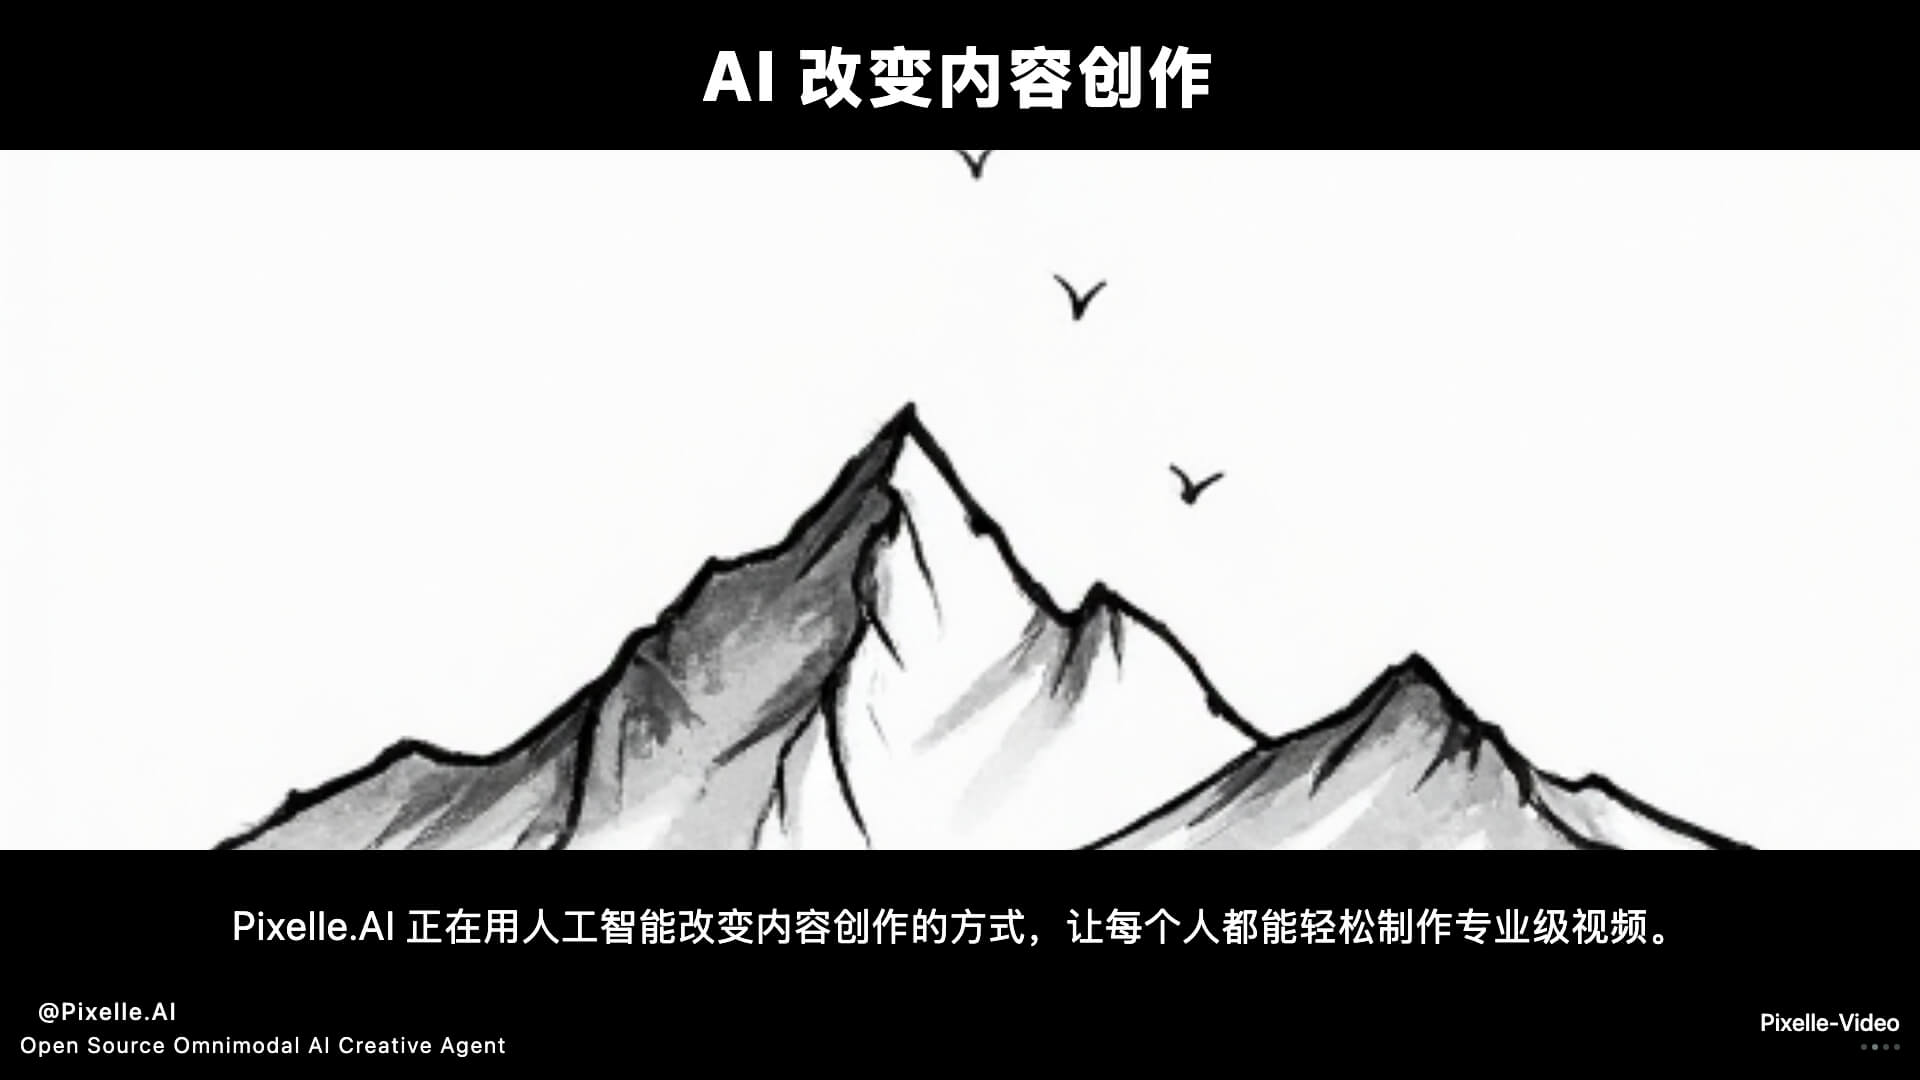
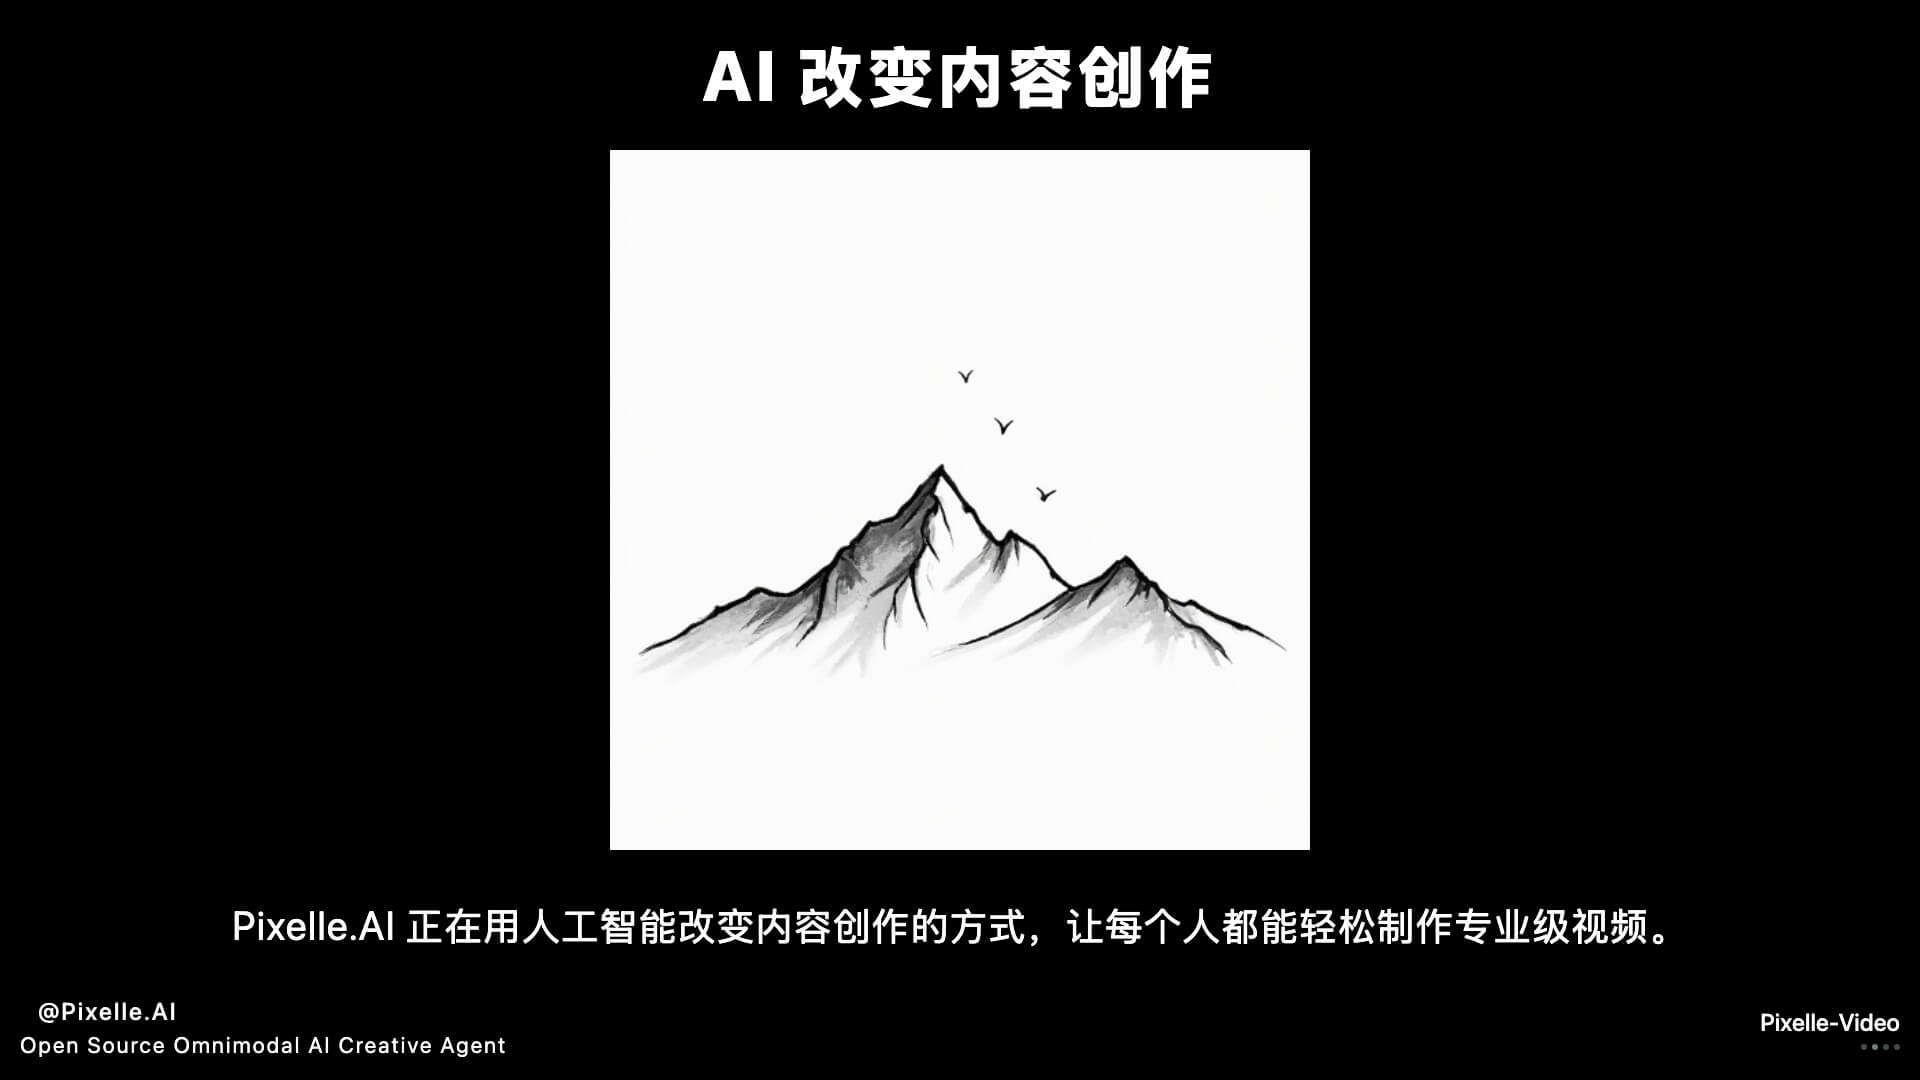
feat: update templates

diff --git a/templates/1920x1080/image_film.html b/templates/1920x1080/image_film.html
@@ -68,7 +68,7 @@
         .middle img {
             width: 100%;
             height: 100%;
-            object-fit: cover;
+            object-fit: contain;
             /* 改为 cover 填满宽度 */
             display: block;
         }
